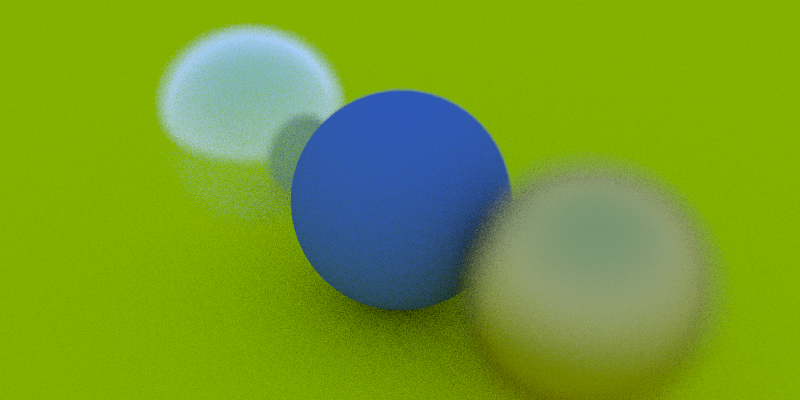
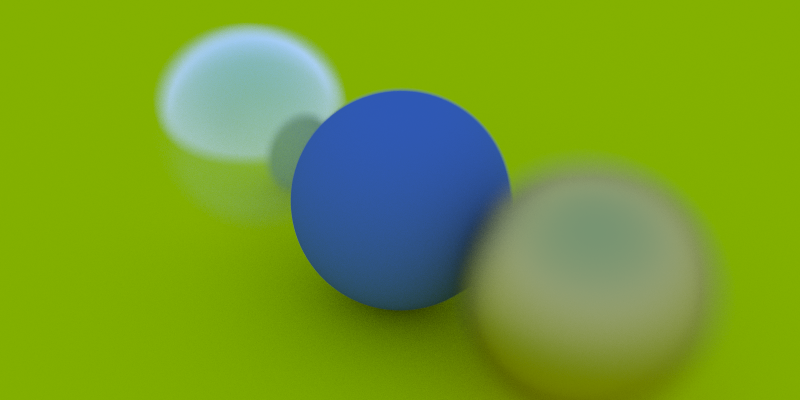
Increased image quality

diff --git a/src/main.rs b/src/main.rs
@@ -7,7 +7,7 @@ use std::path::Path;
 use std::default::Default;
 use std::io::{self, Write};
 
-use image::ImageBuffer;
+use image::ImageBuffer
 
 use mobula::camera::Camera;
 use mobula::material::{Material, Scatter};
@@ -19,8 +19,8 @@ use mobula::world::{World, nearest_hit};
 
 const IMAGE_WIDTH: u32 = 800;
 const IMAGE_HEIGHT: u32 = 400;
-const SAMPLES: u32 = 32;
-const MAX_DEPTH: u32 = 50;
+const SAMPLES: u32 = 512;
+const MAX_DEPTH: u32 = 512;
 
 fn linear_interpolation(start: V3, end: V3, t: f64) -> V3 {
     start.scale(1.0 - t) + end.scale(t)
@@ -60,6 +60,7 @@ fn print_progress(x: u32, y: u32) {
     let max = IMAGE_WIDTH * IMAGE_HEIGHT;
     if current == 0 {
         print!("rendering [")
+        let _ = io::stdout().flush();
     } else if current % (max / 50) == 0 {
         print!("#");
         // failing to flush doesn't matter.
@@ -68,7 +69,6 @@ fn print_progress(x: u32, y: u32) {
     if current == max - 1 {
         println!("] complete!");
     }
-
 }
 
 fn main() {
